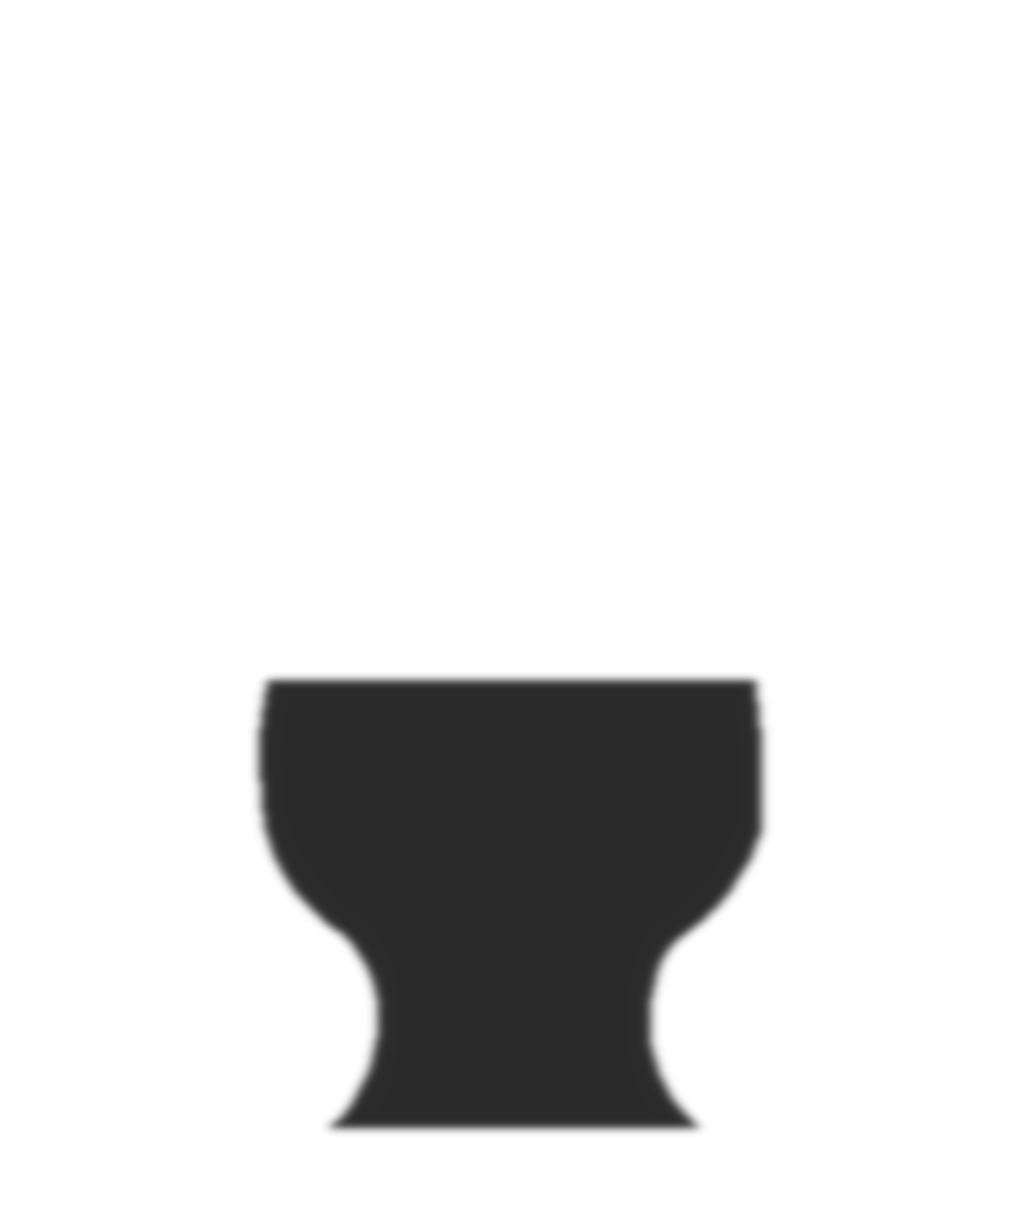
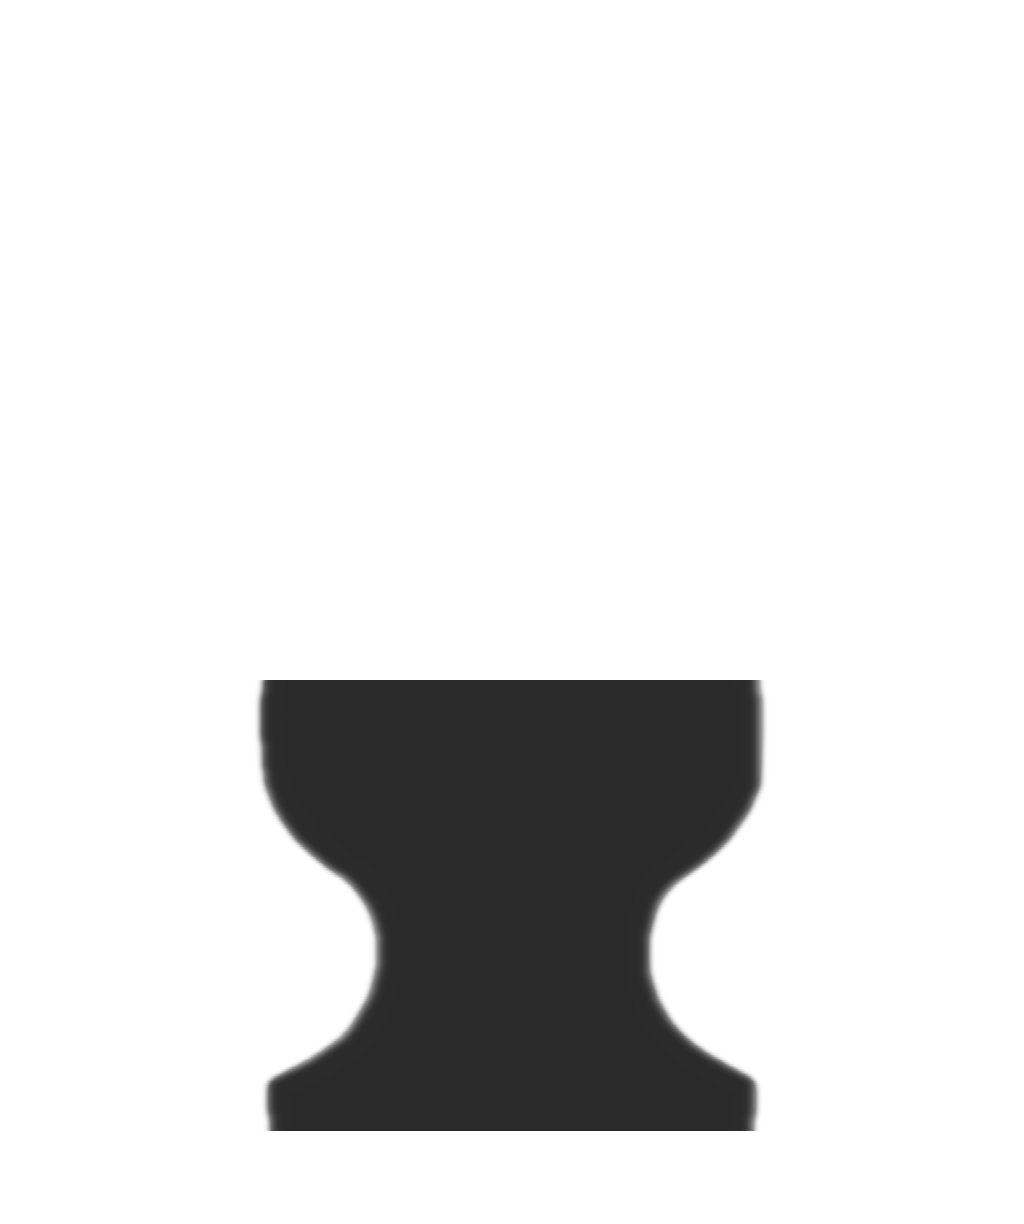
Bend the hair to the head so it looks like part of it, not a wig on top
Scaling each style as one piece to fit the face made the crown stand well above
the scalp and the sides twice too thick. Now the crown hugs the skull with the
hair's own thickness, the face opening widens to our face, and the hair around
the face keeps the crown's proportions.

Changed region(s): [[0.25, 0.5278, 0.75, 0.9314]]

diff --git a/docs/ARCHITECTURE.md b/docs/ARCHITECTURE.md
@@ -456,7 +456,7 @@ Players pick one of the 12 built-in pictures, or make their own in the **avatar 
 - **The code.** A made-up avatar is stored and sent as a short code, `w1.` followed by one id per part in the order of `AVATAR_FIELDS` (`packages/protocol/src/accounts.ts`), e.g. `w1.classic.4.none…`. It goes wherever a built-in avatar id goes: the join message, the account, the room and match history. The server only checks its shape (`isAvatarValue`), allowing up to 32 parts. New parts are only ever added to the end, so older codes stay valid, and the web app draws any part it doesn't know as the default. Part, colour, pose and expression ids are never renamed, and colours are only ever added to the end of a palette.
 - **Poses.** Each pose is its own template, with every part drawn for that angle, in `apps/web/public/art/avatar-parts/<pose>/<category>/<option>/<file>`. A pose can reuse another's art flipped left to right (`mirrorOf`). Each option lists the poses it has art for, and the creator only offers what the chosen pose has. Today there's one pose, `front`.
 - **The parts** are listed in `apps/web/src/avatar/parts.ts`: the files each option has, whether a hat covers the top of the hair, all of it or none, whether a part is painted once for each value of another part (`paintedFor`: a head per skin tone, `head-3.webp`; an eye per eye colour, `open-3.webp`; a mouth per skin tone, `mouth-3.webp`, with only the lips recoloured to suit the skin; every mouth hangs from the same line under the nose, and open mouths are made smaller so none is more than 100 pixels tall on the grid and reaches the chin), and whether it's a pair (`pair`): eyes, lashes and eyebrows are drawn for the left of the picture only, and the right is the same art flipped around the middle of the face. Lashes are made once for each eye shape (`paintedFor: "eyes"`, `lashes-e3.webp`): when the files are made, the top edge of each eye's lid is measured and the base of each lash style is bent onto it, column by column, so the lashes grow out of the lid with no gap on any eye shape. Past the outer corner the lashes keep their own flick, and they stop at the inner corner. The eyebrows move up or down with the eye shape (`browDrop`), so they sit as far above every eye as above Eyes 2, and move up a little more for lashes tall enough to reach them (`browLift`, only Lashes 11 today), leaving at least 8 pixels between lashes and brows on the grid. The eye gap moves the eyes, lashes and eyebrows out from (or in to) the middle together, 6 pixels on the grid per step. The head comes with its neck and shoulders, so clothes are drawn over it. A unit test checks that every listed file exists, in every pose and tone.
-- **Hair.** Hairstyles are painted on a head with a longer, narrower face than ours, so each style is fitted when its files are made: its face opening is measured and scaled onto our face (hairline at 250 on the grid, face 500 wide), a little wider than tall. Hair files reach 200 pixels above the grid (`above`), so tall styles like buns fit, and the whole avatar is drawn at 85% of its circle from the bottom (`FRAME` in `render.ts`), leaving room above the head as in the reference art; close-ups in the creator show the parts at full size. Long hair has a `back` file drawn behind the head: the hair behind the neck, and a dark fill for the back of the hair between the hair and the face. The hair is turned to grey for the hair colour, and hair cuffs are kept in their own colours in a `details` file drawn over it.
+- **Hair.** Hairstyles are painted on a head with a longer, narrower face than ours, so each style is bent to fit when its files are made, rather than scaled as one piece (which made it sit on the head like a wig): the crown is sized so its edge just above the hairline (250 on the grid) sits on our skull plus the hair's own thickness, and follows the skull's curve lower down; the face opening is widened to our face (500 wide); and the hair around the face keeps the crown's proportions, so it isn't blown up. Hair files reach 200 pixels above the grid (`above`), so tall styles like buns fit, and the whole avatar is drawn at 85% of its circle from the bottom (`FRAME` in `render.ts`), leaving room above the head as in the reference art; close-ups in the creator show the parts at full size. Long hair has a `back` file drawn behind the head: the hair behind the neck, and a dark fill for the back of the hair between the hair and the face. The hair is turned to grey for the hair colour, and hair cuffs are kept in their own colours in a `details` file drawn over it.
 - **Colours.** Parts the player recolours (hair, eyebrows, facial hair, clothes, some hats) are drawn in grey with the main colour at 55% grey, and the browser colours them with a gradient map: dark greys become the shadow colour, the main grey the chosen colour, light greys the highlight, and white stays white.
 - **Expressions.** The player only picks their parts; the saved expression is Happy, which uses the mouth they picked. The other faces (laughing, wink, cheeky, surprised, thinking) each use one of the twelve mouths, and are for the game to pull for a reaction (`avatarPicture` takes a `Face`); the winks need eyes with a closed version. A wink joins half of the open eyes with half of the closed ones.
 - **Drawing.** `avatar/layers.ts` works out which files to draw, back to front. `avatar/render.ts` draws them on a canvas, on a glowing disc with a bright rim like the art direction, and keeps each picture once drawn. Nothing is uploaded.
